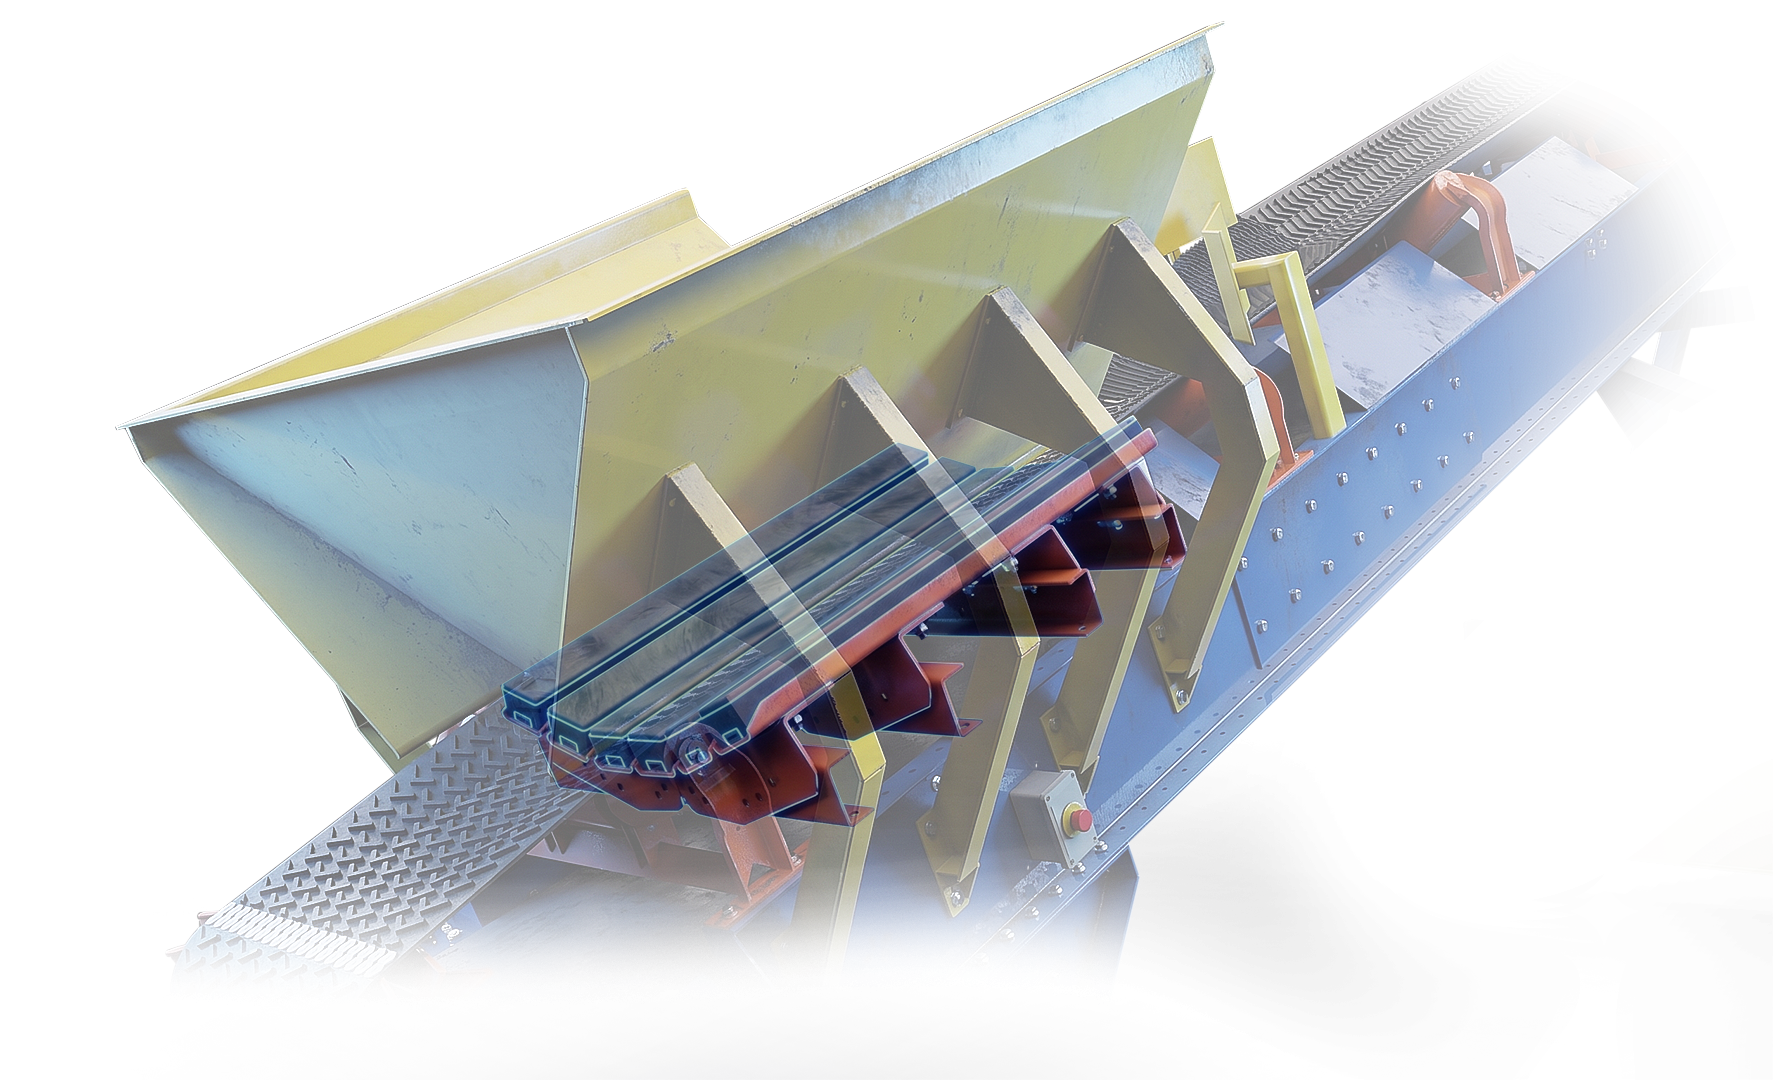
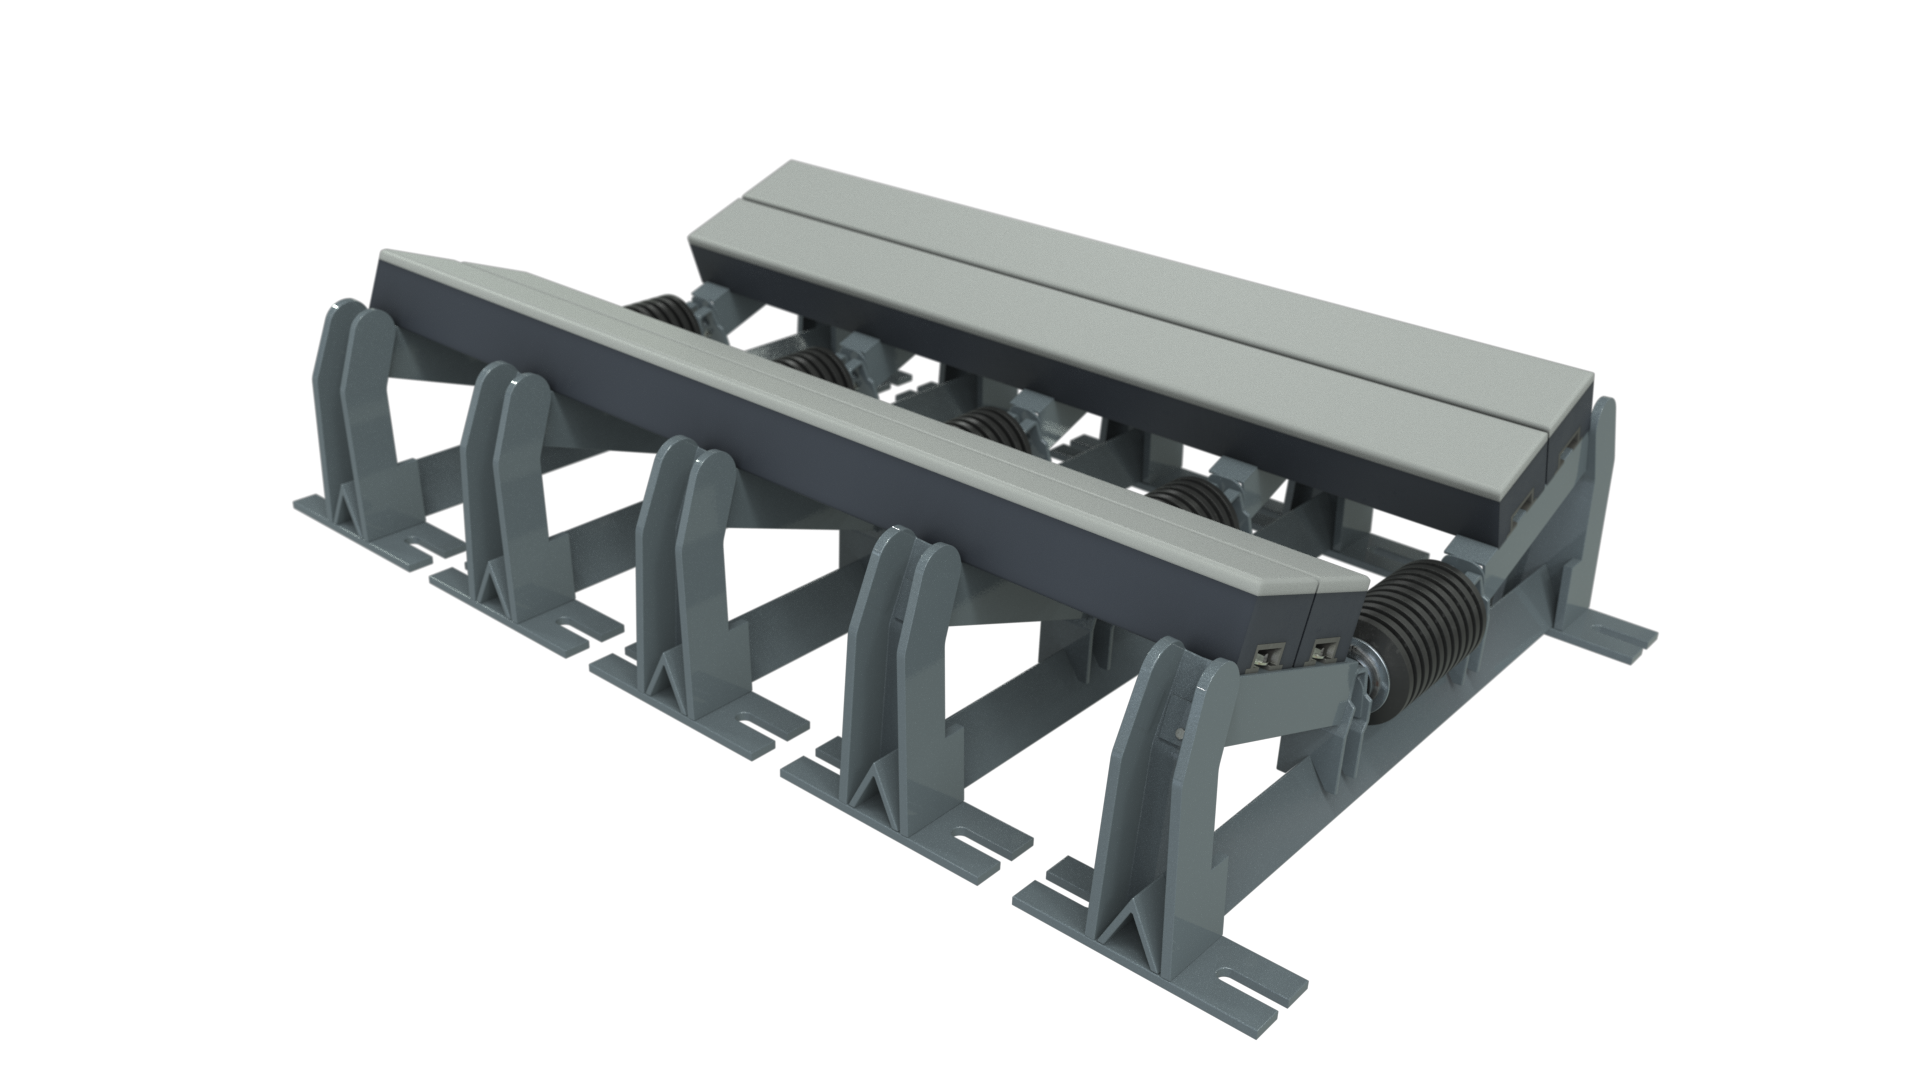
fluent: foot/flange mount highlights gearbox (not all bolts); cleaner impact bed card image

diff --git a/fluent-helical-drive.html b/fluent-helical-drive.html
@@ -156,7 +156,7 @@
       match:/controler|control/i, textKey:/wiring box|sealed wiring/i,
       body:"Sealed terminal box for wiring, with thermostat and encoder options. IP55 standard, up to IP66/IP69K for washdown environments." },
     { id:"foot",     name:"Foot / Flange Mount",  tag:"Direct replacement",
-      match:/bolt|screw/i, textKey:/bolt-down foot|foot\/flange|foot base/i,
+      match:/gearbox/i, textKey:/bolt-down foot|foot\/flange|foot base/i,
       body:"Bolt-down foot base with foot/flange combinations to match existing conveyor drive mounts for direct replacement." },
   ];
   const byId = Object.fromEntries(FEATURES.map(f => [f.id, f]));
